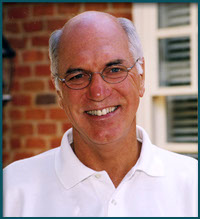
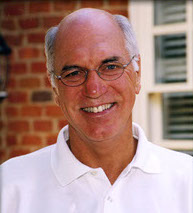
Edited pic of Gary

diff --git a/css/custom.css b/css/custom.css
@@ -277,11 +277,10 @@ li a:hover {
 
 .gary-pic {
   display: block;
-  width: 50%;
+  width: 70%;
   max-width: 200px;
-  margin: auto;
-  border-radius: 2px;
-  padding: 1em;
+  border-radius: 10px;
+  margin: 1em auto;
 }
 
 .about-top-pic {
